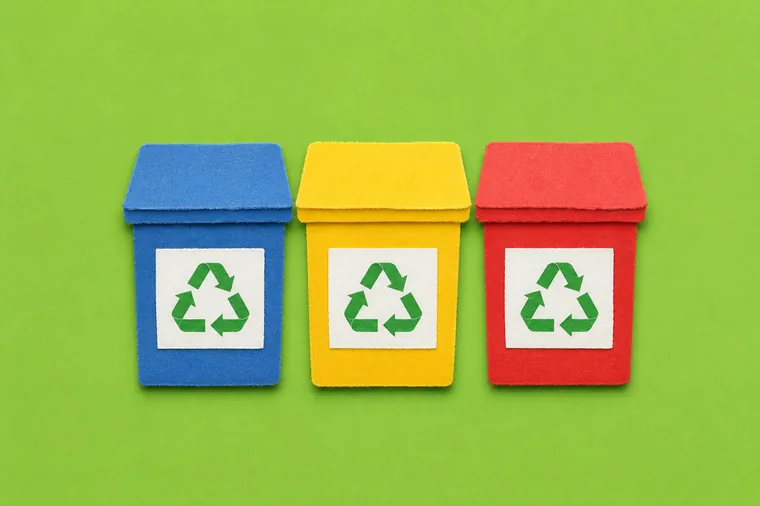
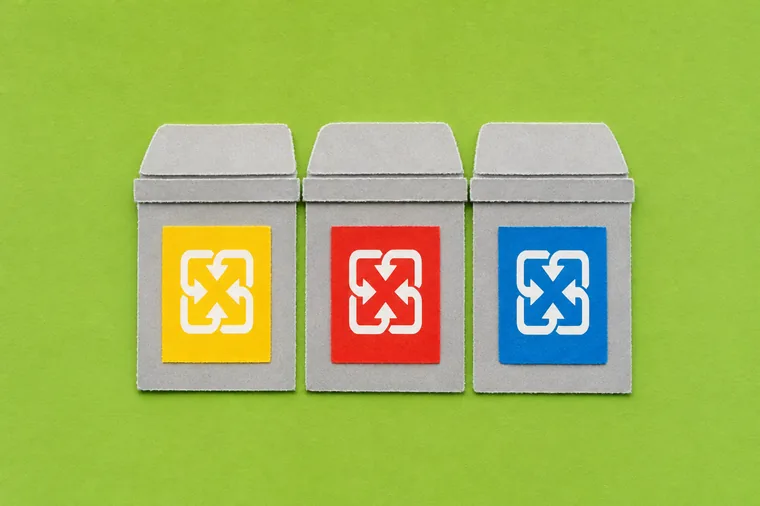
U5 封面改成學校回收桶樣式（銀色桶＋黃紅藍標籤、四箭頭標誌）

diff --git a/生成封面.py b/生成封面.py
@@ -583,7 +583,7 @@ STYLE = (
 # ── 第二學習階段的封面（2026-10-07 老師裁示「一起整合」進總入口）──────────
 # 🔴 代號前綴 `two`（`twosociety01`），與 產出總入口.py 的 階段前綴、產出使用說明書.py 一致。
 #    第二學習階段陸續上線，這張表**有站才補**；同一學期頁裡主體不可以彼此像。
-# 🛑 社會第 5 單元的回收桶顏色＝教材暫定色（藍／黃／紅），老師給學校實際顏色後要跟著改這一張。
+# 🛑 社會第 5 單元的回收桶＝學校實際樣式（2026-10-09 老師提供照片：銀色桶＋黃／紅／藍分類標籤、四箭頭標誌）。
 封面二階一上 = [
     ("自然", 3, "這是什麼",
      "畫面正中央三個並排的透明圓形小玻璃罐，左邊裝白色顆粒、中間裝淺黃色粉末、"
@@ -602,9 +602,9 @@ STYLE = (
      "畫面正中央一支直立的淺木色掃把和一個綠色的畚箕並排靠在一起，"
      "旁邊放著一個淺藍色的小水桶" + 只有物件),
     ("社會", 5, "我會和同學一起合作做資源回收",
-     "畫面正中央三個並排的方形回收桶，左邊藍色、中間黃色、右邊紅色，"
-     "每個桶都有同色的方形桶蓋，桶身正面各貼一張白色方形貼紙，"
-     "貼紙上畫著三個綠色箭頭繞成三角形的循環符號" + 只有物件),
+     "畫面正中央三個並排的不鏽鋼銀色方形回收桶，都有銀色的方形桶蓋，"
+     "桶身正面各貼一張長方形彩色標籤：左邊黃色、中間紅色、右邊藍色，"
+     "標籤上只用白色線條畫著臺灣的資源回收標誌（四個箭頭繞成一個方形），標籤上沒有任何文字" + 只有物件),
 ]
 
 # 正規化成 (班別, 學期碼, 領域, 序, 名, 畫面)
